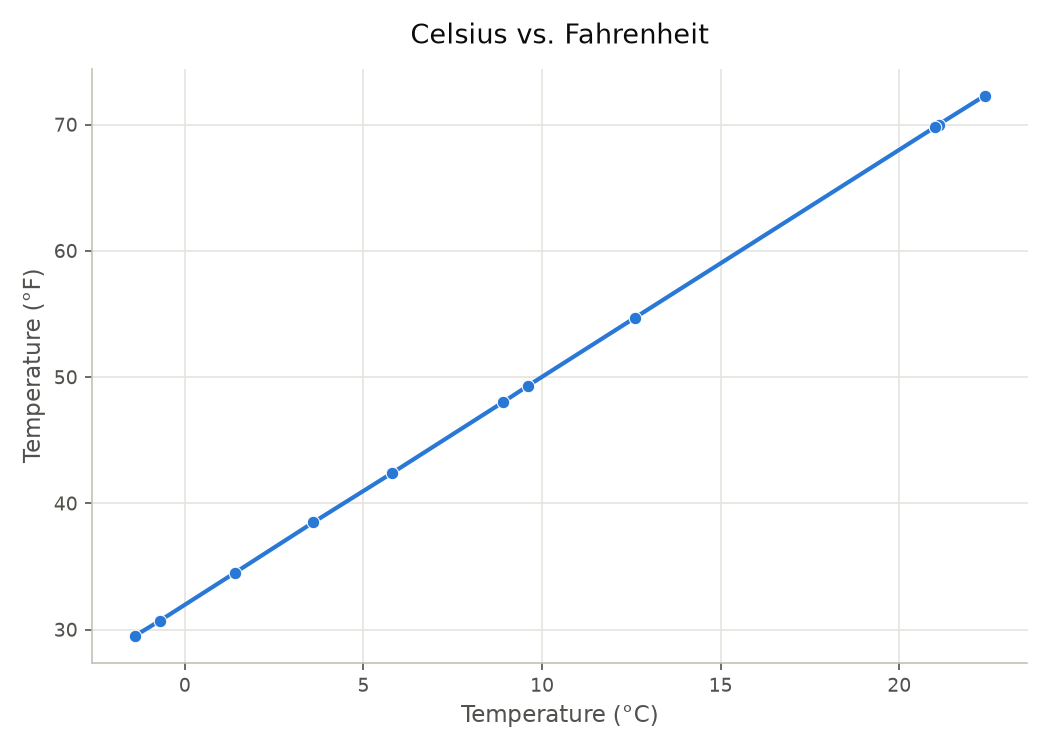
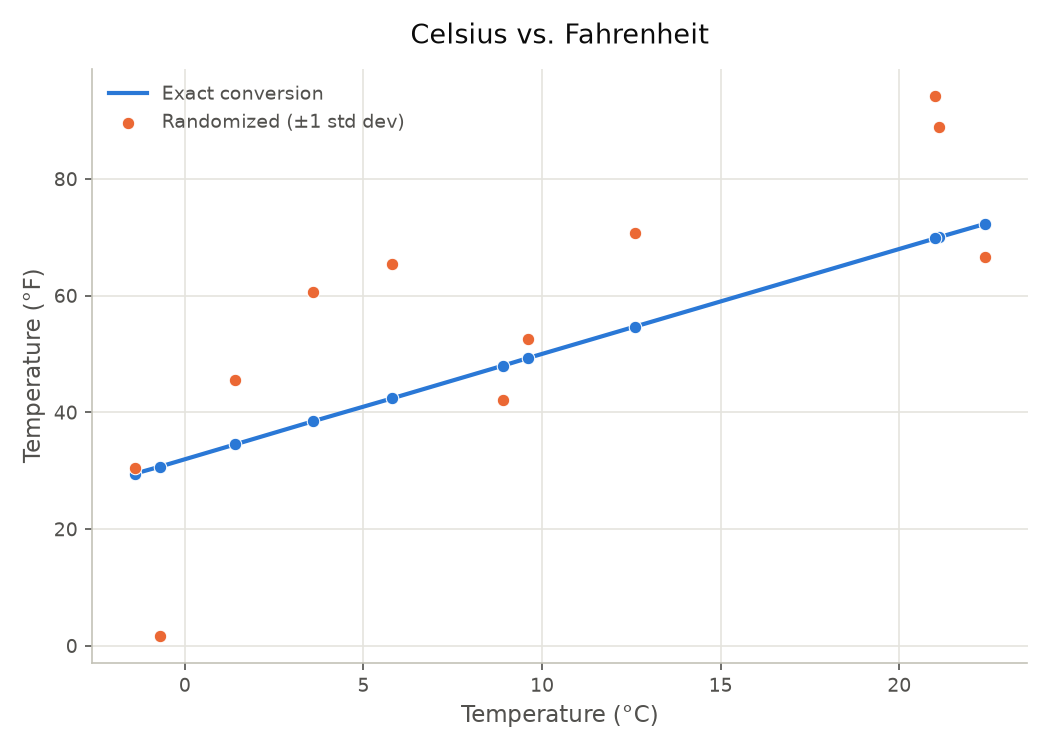
Add randomized Fahrenheit values to the temperature chart
Plots the randomized (+-1 std dev) Fahrenheit column as a second
series alongside the exact conversion line, with a legend.

Claude-Session: https://claude.ai/code/session_01TJnqQSUihiYgNcSpTA76cw

diff --git a/plot_temperature.py b/plot_temperature.py
@@ -3,13 +3,15 @@ import csv
 import matplotlib.pyplot as plt
 
 CSV_PATH = "temperature_data.csv"
-SERIES_COLOR = "#2a78d6"
+COLOR_EXACT = "#2a78d6"
+COLOR_RANDOMIZED = "#eb6834"
 
-celsius, fahrenheit = [], []
+celsius, fahrenheit, fahrenheit_randomized = [], [], []
 with open(CSV_PATH, newline="") as f:
     for row in csv.DictReader(f):
         celsius.append(float(row["temperature_celsius"]))
         fahrenheit.append(float(row["temperature_fahrenheit"]))
+        fahrenheit_randomized.append(float(row["temperature_fahrenheit_randomized"]))
 
 order = sorted(range(len(celsius)), key=lambda i: celsius[i])
 celsius_sorted = [celsius[i] for i in order]
@@ -20,18 +22,37 @@ fig, ax = plt.subplots(figsize=(7, 5), dpi=150)
 ax.plot(
     celsius_sorted,
     fahrenheit_sorted,
-    color=SERIES_COLOR,
+    color=COLOR_EXACT,
     linewidth=2,
     zorder=2,
+    label="Exact conversion",
 )
 ax.scatter(
     celsius,
     fahrenheit,
-    color=SERIES_COLOR,
+    color=COLOR_EXACT,
     s=36,
     zorder=3,
     edgecolors="white",
     linewidths=0.5,
+    label="_nolegend_",
+)
+ax.scatter(
+    celsius,
+    fahrenheit_randomized,
+    color=COLOR_RANDOMIZED,
+    s=36,
+    zorder=3,
+    edgecolors="white",
+    linewidths=0.5,
+    label="Randomized (±1 std dev)",
+)
+
+ax.legend(
+    frameon=False,
+    fontsize=9,
+    labelcolor="#52514e",
+    loc="upper left",
 )
 
 ax.set_title("Celsius vs. Fahrenheit", fontsize=13, color="#0b0b0b", pad=12)
